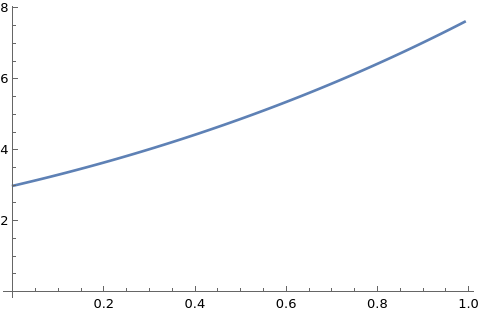
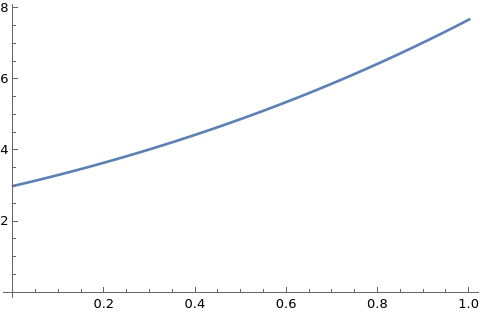
fixed minor bug

diff --git a/EulerCalc.cpp b/EulerCalc.cpp
@@ -10,17 +10,16 @@ std::vector<std::pair<double, double> > Calculate(double l, double r, int n, dou
 {
 	double h = (r - l) / n;
 	
-	std::vector<std::pair<double, double> >xy(n);
+	std::vector<std::pair<double, double> >xy(n + 1);
 	
-	int j = 0;
-	for(double i = l; i < r; i += h)
+	for(int i = 0; i < n + 1; i++)
 	{
-		xy[j++].first = i;
+		xy[i].first = h * i;
 	}
 	
 	xy[0].second = y0;
 	
-	for(int i = 1; i < n; i++)
+	for(int i = 1; i <= n; i++)
 	{
 		double prevx, prevy;
 		prevx = xy[i - 1].first;
